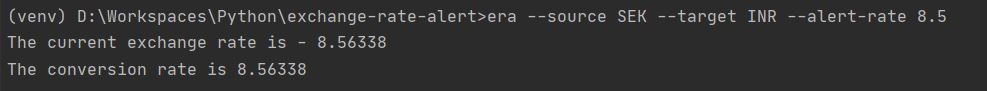
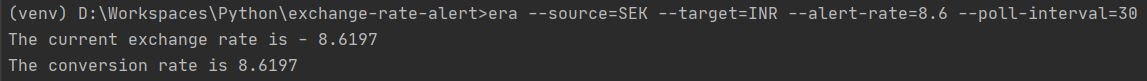
Polling Interval Option, Minor fixes

Changed region(s): [[0.0, 0.0741, 1.0, 0.2716], [0.0, 0.3951, 0.3951, 0.5926], [0.0, 0.6914, 0.3343, 0.8889]]

diff --git a/ratealert/__init__.py b/ratealert/__init__.py
@@ -7,14 +7,18 @@ from ratealert.transferwiseclient import TransferwiseClient
 
 class ConversionAlert(object):
 
-    def __init__(self, source, target, alert_rate):
+    def __init__(self, source, target, alert_rate, poll_interval):
         """
         Creates a transfer alert when the transfer rate is greater than target rate
         :param source: source currency
         :param target: target currency
         :param alert_rate: rate at which to raise alert
+        :param poll_interval: time interval in seconds to poll transferwise service
         """
         self._thread = None
+
+        if poll_interval is None or int(poll_interval) < 60:
+            poll_interval = 60
 
         try:
             alert_rate = float(alert_rate)
@@ -29,7 +33,7 @@ class ConversionAlert(object):
                 click.echo("The current exchange rate is - " + str(current_rate))
                 if current_rate > alert_rate:
                     self._set_alert(current_rate, notification)
-                time.sleep(int(300))
+                time.sleep(int(poll_interval))
         except KeyboardInterrupt:
             exit(0)
         except InterruptedError:

diff --git a/ratealert/era.py b/ratealert/era.py
@@ -6,8 +6,9 @@ import click
 @click.option('--source', prompt='Source Currency', help='Source Currency.')
 @click.option('--target', prompt='Target Currency', help='Target Currency.')
 @click.option('--alert-rate', prompt='Alert Rate', help='Rate at which to raise alert.')
-def main(source, target, alert_rate):
-    ConversionAlert(source, target, alert_rate)
+@click.option('--poll-interval', prompt='Polling Interval', help='Time intervals to check transfer rates.')
+def main(source, target, alert_rate, poll_interval):
+    ConversionAlert(source, target, alert_rate, poll_interval)
 
 
 if __name__ == "__main__":

diff --git a/ratealert/auth/linuxauth.py b/ratealert/auth/linuxauth.py
@@ -20,7 +20,7 @@ class LinuxAuth:
     def _get_auth_from_property(self):
         """Loading auth code for unix system"""
         home = str(Path.home())
-        prop_file = home + '\.tcr'
+        prop_file = home + '/.tcr'
         config = ConfigParser()
         config.read(prop_file)
         token = config.get('default', 'token')

diff --git a/setup.py b/setup.py
@@ -7,7 +7,7 @@ with open("README.md", "r") as fh:
 
 setuptools.setup(
     name='exchange-rate-alert',
-    version='0.7',
+    version='0.8',
     description='Create desktop alerts for Transferwise exchange rates',
     long_description=long_description,
     url='https://github.com/paradigmwit/exchange-rate-alert',

diff --git a/README.md b/README.md
@@ -1,11 +1,11 @@
 Exchange Rate Alert
 ---
 
-Creates desktop alerts when the Transferwise exchange rates hit a target rate. Tries every five minutes.
+Creates desktop alerts when the Transferwise exchange rates hit a target rate. Checks conversion rate every time the polling interval has passed.
 
 ![Notification](./img/era_notification.jpg)
 
-Currently running on Windows, PIP version 20.0.1
+Currently running on Windows and Linux, PIP version 20.0.1
 
 ---
 
@@ -37,7 +37,7 @@ Install package from pip
 
 **1. From Command Prompt** 
 
-- `era --source SEK --target INR --alert-rate 8.5`
+- `era --source SEK --target INR --alert-rate 8.5 --poll-interval=30`
 
     ![CMD](./img/era_cli_option.JPG)
     
@@ -52,24 +52,26 @@ Import into python script
 - `from ratealert import ConversionAlert`
     
 Call the constructor, wait for alert, profit!
-- `ConversionAlert(source, target, alert_rate)`
+- `ConversionAlert(source, target, alert_rate, poll_interval)`
 
 **Example**
 
     from ratealert import ConversionAlert
-    ConversionAlert('SEK', 'INR', 8.5)
+    ConversionAlert('SEK', 'INR', 8.5, 60)
 
 This will create a notification when the Transferwise exchange rate crosses the alert rate. 
 
 ![Notification](./img/era_notification.jpg)
 
-The rates will be checked every five minutes.
+The rates will be checked every 60 seconds if the polling interval option is not provided.
 
 Exit the script by Ctrl+C
 
 ---
 
 #### Change notes
+
+0.8 - Polling interval as an option, minor fix for Linux
 
 0.7 - support for Linux, installs packages based on OS
 
@@ -86,5 +88,5 @@ Exit the script by Ctrl+C
 
 - Quotation request and transfer lock on target conversion rate
 - OAuth login for Transferwise
-- Linux support
+- Support for other clients (Remitly?) 
 
